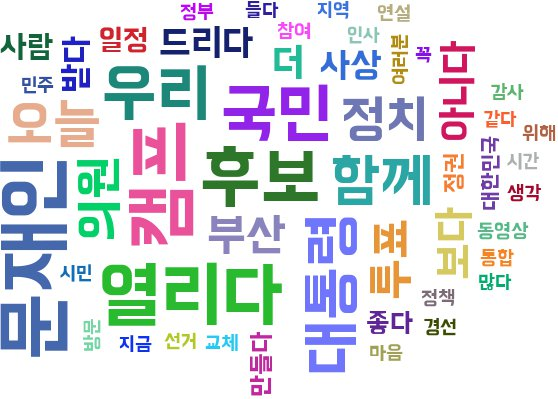
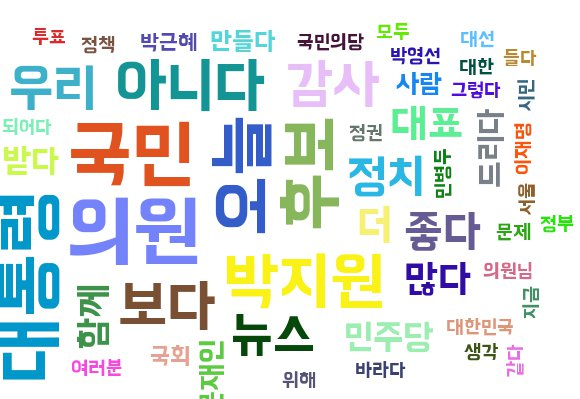
Chart 1000 Points plot / show 10 Similar words

diff --git a/server/app/templates/integration.html b/server/app/templates/integration.html
@@ -458,7 +458,12 @@
                                 + '<br>top2: ' + p.top1
                                 + '<br>top3: ' + p.top2
                                 + '<br>top4: ' + p.top3
-                                + '<br>top5: ' + p.top4 + '</p>'
+                                + '<br>top5: ' + p.top4
+                                + '<br>top6: ' + p.top5
+                                + '<br>top7: ' + p.top6
+                                + '<br>top8: ' + p.top7
+                                + '<br>top9: ' + p.top8
+                                + '<br>top10: ' + p.top9 + '</p>'
                     }                    
                 },
                 series: [{

diff --git a/server/app/templates/reply.html b/server/app/templates/reply.html
@@ -458,7 +458,12 @@
                                 + '<br>top2: ' + p.top1
                                 + '<br>top3: ' + p.top2
                                 + '<br>top4: ' + p.top3
-                                + '<br>top5: ' + p.top4 + '</p>'
+                                + '<br>top5: ' + p.top4
+                                + '<br>top6: ' + p.top5
+                                + '<br>top7: ' + p.top6
+                                + '<br>top8: ' + p.top7
+                                + '<br>top9: ' + p.top8
+                                + '<br>top10: ' + p.top9 + '</p>'
                     }                    
                 },
                 series: [{

diff --git a/server/app/templates/tweet.html b/server/app/templates/tweet.html
@@ -458,7 +458,12 @@
                                 + '<br>top2: ' + p.top1
                                 + '<br>top3: ' + p.top2
                                 + '<br>top4: ' + p.top3
-                                + '<br>top5: ' + p.top4 + '</p>'
+                                + '<br>top5: ' + p.top4
+                                + '<br>top6: ' + p.top5
+                                + '<br>top7: ' + p.top6
+                                + '<br>top8: ' + p.top7
+                                + '<br>top9: ' + p.top8
+                                + '<br>top10: ' + p.top9 + '</p>'
                     }                    
                 },
                 series: [{

diff --git a/server/app/run.py b/server/app/run.py
@@ -99,7 +99,7 @@ def make_point_data(word_list, vec_list, inclinatation):
             point_data += ","
         point_data += "{name:'%s',word:'%s',x:%s,y:%s,z:%s" \
                       % (inclinatation,word_list[idx][0], vec_list[idx][0][0], vec_list[idx][0][1], vec_list[idx][0][2])
-        for rank in range(5):
+        for rank in range(10):
             point_data += ",top%d:'%s'" % (rank, vec_list[idx][1][rank][0])
         point_data += '}'
     point_data += ']'

diff --git a/NLP.py b/NLP.py
@@ -51,7 +51,7 @@ def get_frequent_words(people_list, table_list):
     sorted_list = sorted(freq_dict.items(), key=operator.itemgetter(1))
     sorted_list.reverse()
 
-    return sorted_list[:150]
+    return sorted_list[:1000]
 
 
 def extract_frequent_words(mysql_query, is_repost=None):
